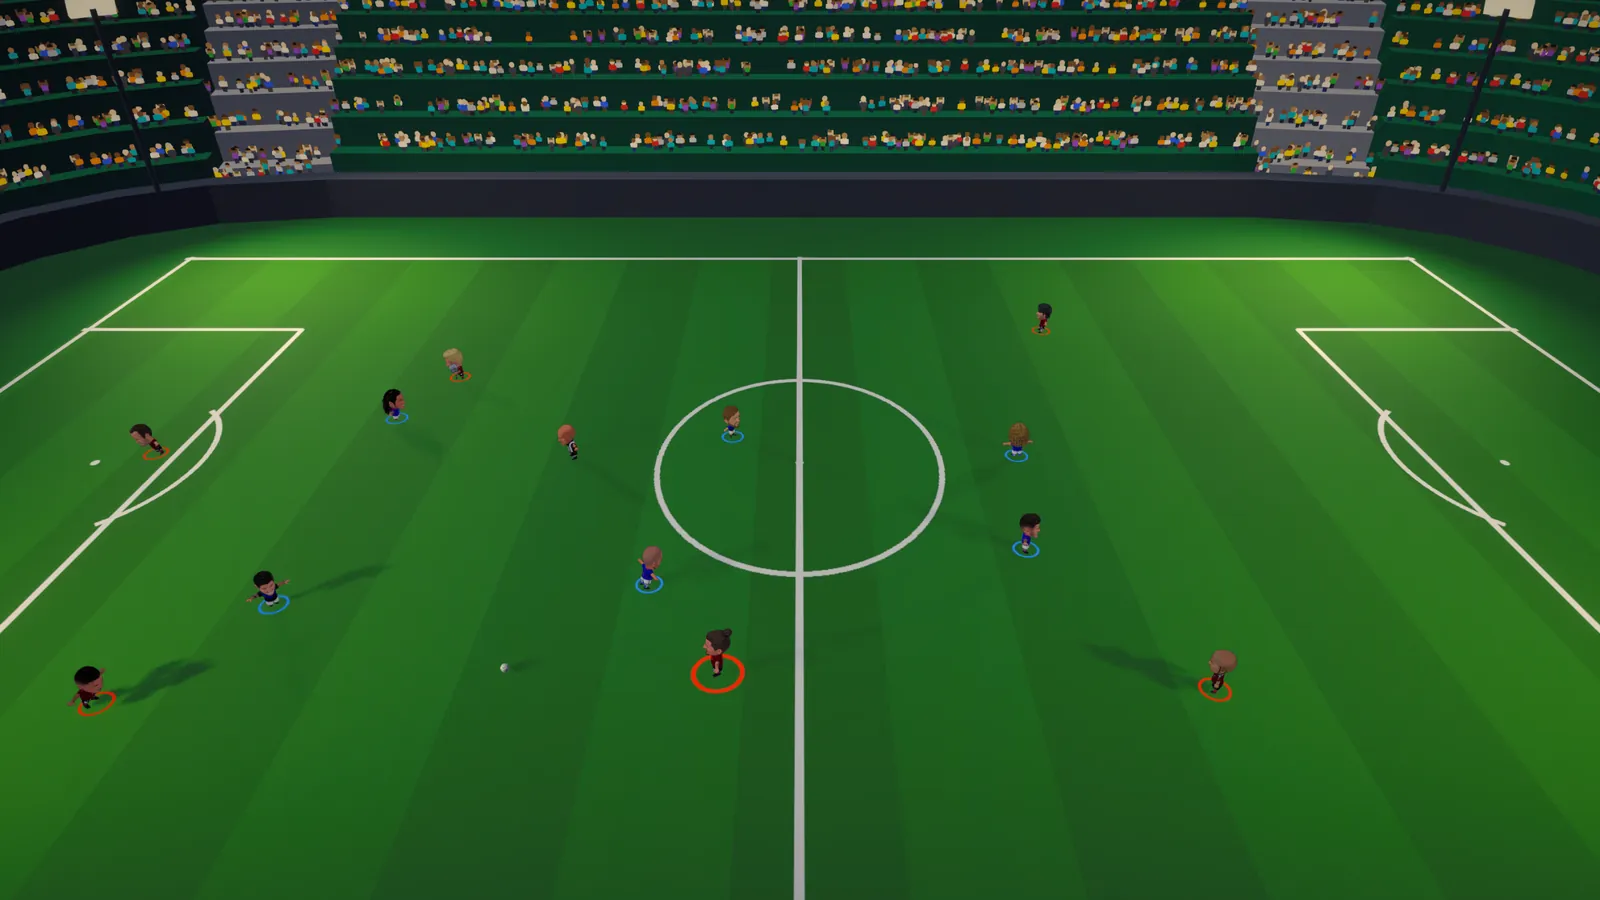
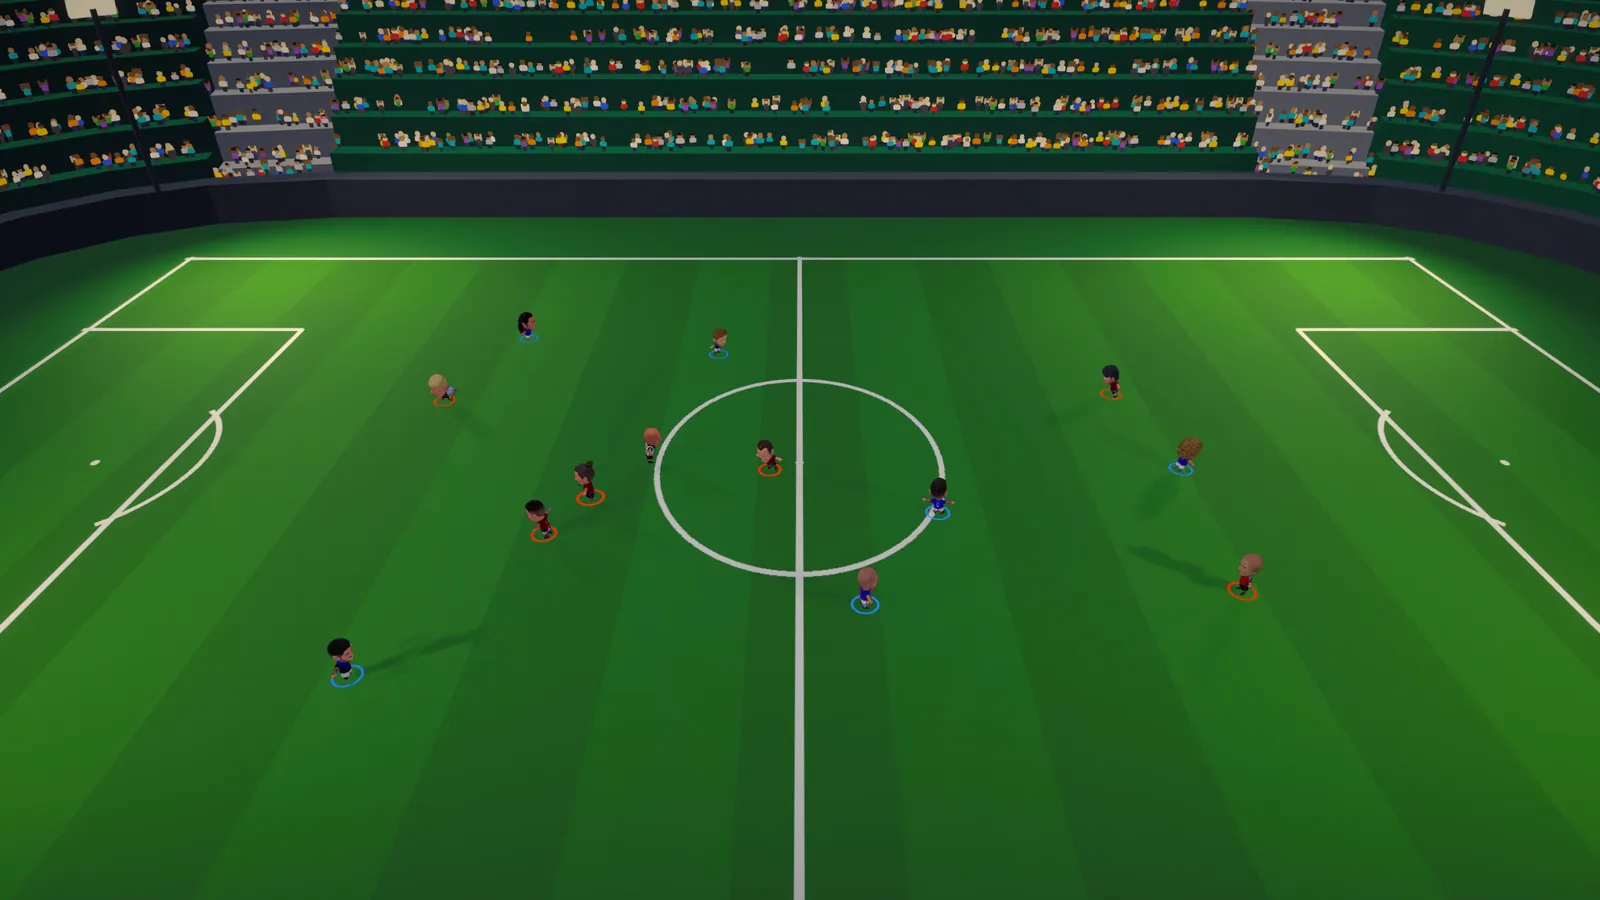
Rober entra al album: los 28 completos
Su modelo (chibi_rc3b) era el unico con el escudo del Real Madrid y el logo de
adidas horneados en la textura, y por eso estuvo afuera. Rodrigo la re-texturizo.
Zlatan se rehizo tambien: tenia una bandera de Suecia en el pecho.

Verificado con zoom sobre los renders, no sobre la palabra de nadie — la camiseta
de Rober quedo gris lisa (sin escudo ni las tres tiras en la manga) y la de
Zlatan magenta con el 9 y nada mas.

De paso entra partido.webp regenerado: cambio m7_match_mid.png en el repo del
juego (se re-corrio SimMatch), asi que la captura es otro momento del partido.
Revisada igual antes de subirla.

Claude-Session: https://claude.ai/code/session_01EJqH88L1bWsyEH2keDAr7k

diff --git a/index.html b/index.html
@@ -208,7 +208,7 @@
           <p class="bajada">Veintiséis de campo y dos arqueros. Los elegís uno por uno en ARMAR EQUIPO
             antes de cada partido, y en el potrero podés ir cambiando para probarlos a todos.</p>
         </div>
-        <p class="album__contador rev"><b>27</b> retratados <span aria-hidden="true">·</span> te falta <b>1</b></p>
+        <p class="album__contador rev"><b>28</b> retratados <span aria-hidden="true">·</span> <b>álbum completo</b></p>
       </div>
 
       <ul class="album rev">
@@ -240,10 +240,10 @@
         <li class="figu"><img src="assets/roster/samu.webp" alt="Retrato de Samu" width="360" height="360" loading="lazy"><div class="figu__pie"><span class="figu__nombre">Samu</span><span class="figu__firma">La Muralla</span></div></li>
         <li class="figu"><img src="assets/roster/zlatan.webp" alt="Retrato de Zlatan" width="360" height="360" loading="lazy"><div class="figu__pie"><span class="figu__nombre">Zlatan</span><span class="figu__firma">El Gigante</span></div></li>
         <li class="figu"><img src="assets/roster/el-pupi.webp" alt="Retrato de El Pupi" width="360" height="360" loading="lazy"><div class="figu__pie"><span class="figu__nombre">El Pupi</span><span class="figu__firma">El Tractor</span></div></li>
-        <li class="figu figu--falta"><div class="figu__hueco" aria-hidden="true">?</div><div class="figu__pie"><span class="figu__nombre">Rober</span><span class="figu__firma">El Cañonazo</span></div></li>
+        <li class="figu"><img src="assets/roster/rober.webp" alt="Retrato de Rober" width="360" height="360" loading="lazy"><div class="figu__pie"><span class="figu__nombre">Rober</span><span class="figu__firma">El Cañonazo</span></div></li>
       </ul>
 
-      <p class="tiza rev" style="margin-top:32px">A Rober todavía le falta la foto de carnet. Está en el juego igual.</p>
+      <p class="tiza rev" style="margin-top:32px">Ya están los veintiocho. El último en entrar fue Rober.</p>
     </div>
   </section>
 

diff --git a/tools/build_assets.py b/tools/build_assets.py
@@ -67,10 +67,12 @@ ROSTER = [
     # los genera `game-unity/assets-src/render_check_front.py`.
     ("dinho", "dinho"), ("depaul", "el-motorcito"), ("samu", "samu"),
     ("zlatan", "zlatan"), ("pupi", "el-pupi"),
+    # 30-jul-2026: Rober entra y el album queda completo. Su modelo (`chibi_rc3b`)
+    # era el unico con el escudo del Real Madrid y el logo de adidas horneados en
+    # la textura, asi que hasta hoy no se podia publicar. Rodrigo la re-texturizo;
+    # verificado con zoom sobre el render antes de subirlo.
+    ("rc3b", "rober"),
 ]
-# El sexto hueco, «Rober», SE QUEDA VACIO A PROPOSITO: su modelo es `chibi_rc3b`,
-# el unico que tiene el escudo y el logo de adidas horneados en la textura. No se
-# publica hasta que esa textura se limpie (ver README § Chequeo de marcas).
 # La ventana del busto (cabeza + hombros, sin los brazos en T-pose) NO es fija:
 # se MIDE sobre cada render. Antes era la constante BUST = (135, 55, 505, 425),
 # calibrada a mano contra los renders viejos de 640x720 — y funcionaba mientras

diff --git a/README.md b/README.md
@@ -73,8 +73,10 @@ ffmpeg -i assets/video/gol.mp4 -vframes 1 -q:v 4 assets/video/gol.jpg
 
 ## ⚠ Chequeo de marcas — OBLIGATORIO antes de publicar cualquier imagen o video
 
-El modelo `rc3b` del juego tiene **el escudo del Real Madrid y el logo de adidas horneados
-en la textura**. Nada donde se lea una marca registrada puede publicarse.
+Nada donde se lea una marca registrada puede publicarse. El caso testigo fue `rc3b`
+(Rober): tenía **el escudo del Real Madrid y el logo de adidas horneados en la textura**,
+y por eso estuvo fuera del álbum hasta que se re-texturizó el 30-jul-2026. Que un modelo
+ya se haya revisado una vez no sirve de nada — las texturas cambian.
 
 Antes de commitear una imagen o un video nuevo:
 
@@ -85,7 +87,9 @@ Antes de commitear una imagen o un video nuevo:
 4. En el copy, alt-texts y **nombres de archivo**: sólo los apodos in-game
    (EL VIKINGO, IL CAPITANO, EL MOTORCITO…), nunca los apellidos reales.
 
-Pendiente del lado del juego (no bloquea la web): limpiar la textura de `rc3b`.
+La textura de `rc3b` se limpió el 30-jul-2026 y Rober entró al álbum. Se verificó con
+zoom sobre el render, no sobre la palabra de nadie: la limpieza de una textura no exime
+del chequeo.
 
 ## Deploy
 
@@ -153,8 +157,8 @@ El recorte del busto **se mide** sobre cada render (`ventana_del_busto`) en vez 
 una ventana fija en píxeles, así conviven los renders viejos y los nuevos en la misma
 grilla sin descuadrarse.
 
-**Rober se queda sin figurita a propósito**: su modelo es `chibi_rc3b`, el único con el
-escudo y el logo de adidas horneados en la textura.
+El álbum está **completo, los 28**. Rober fue el último: su modelo (`chibi_rc3b`) era el
+único con el escudo y el logo horneados, y entró cuando se re-texturizó.
 
 ## La pelota y el ícono
 
